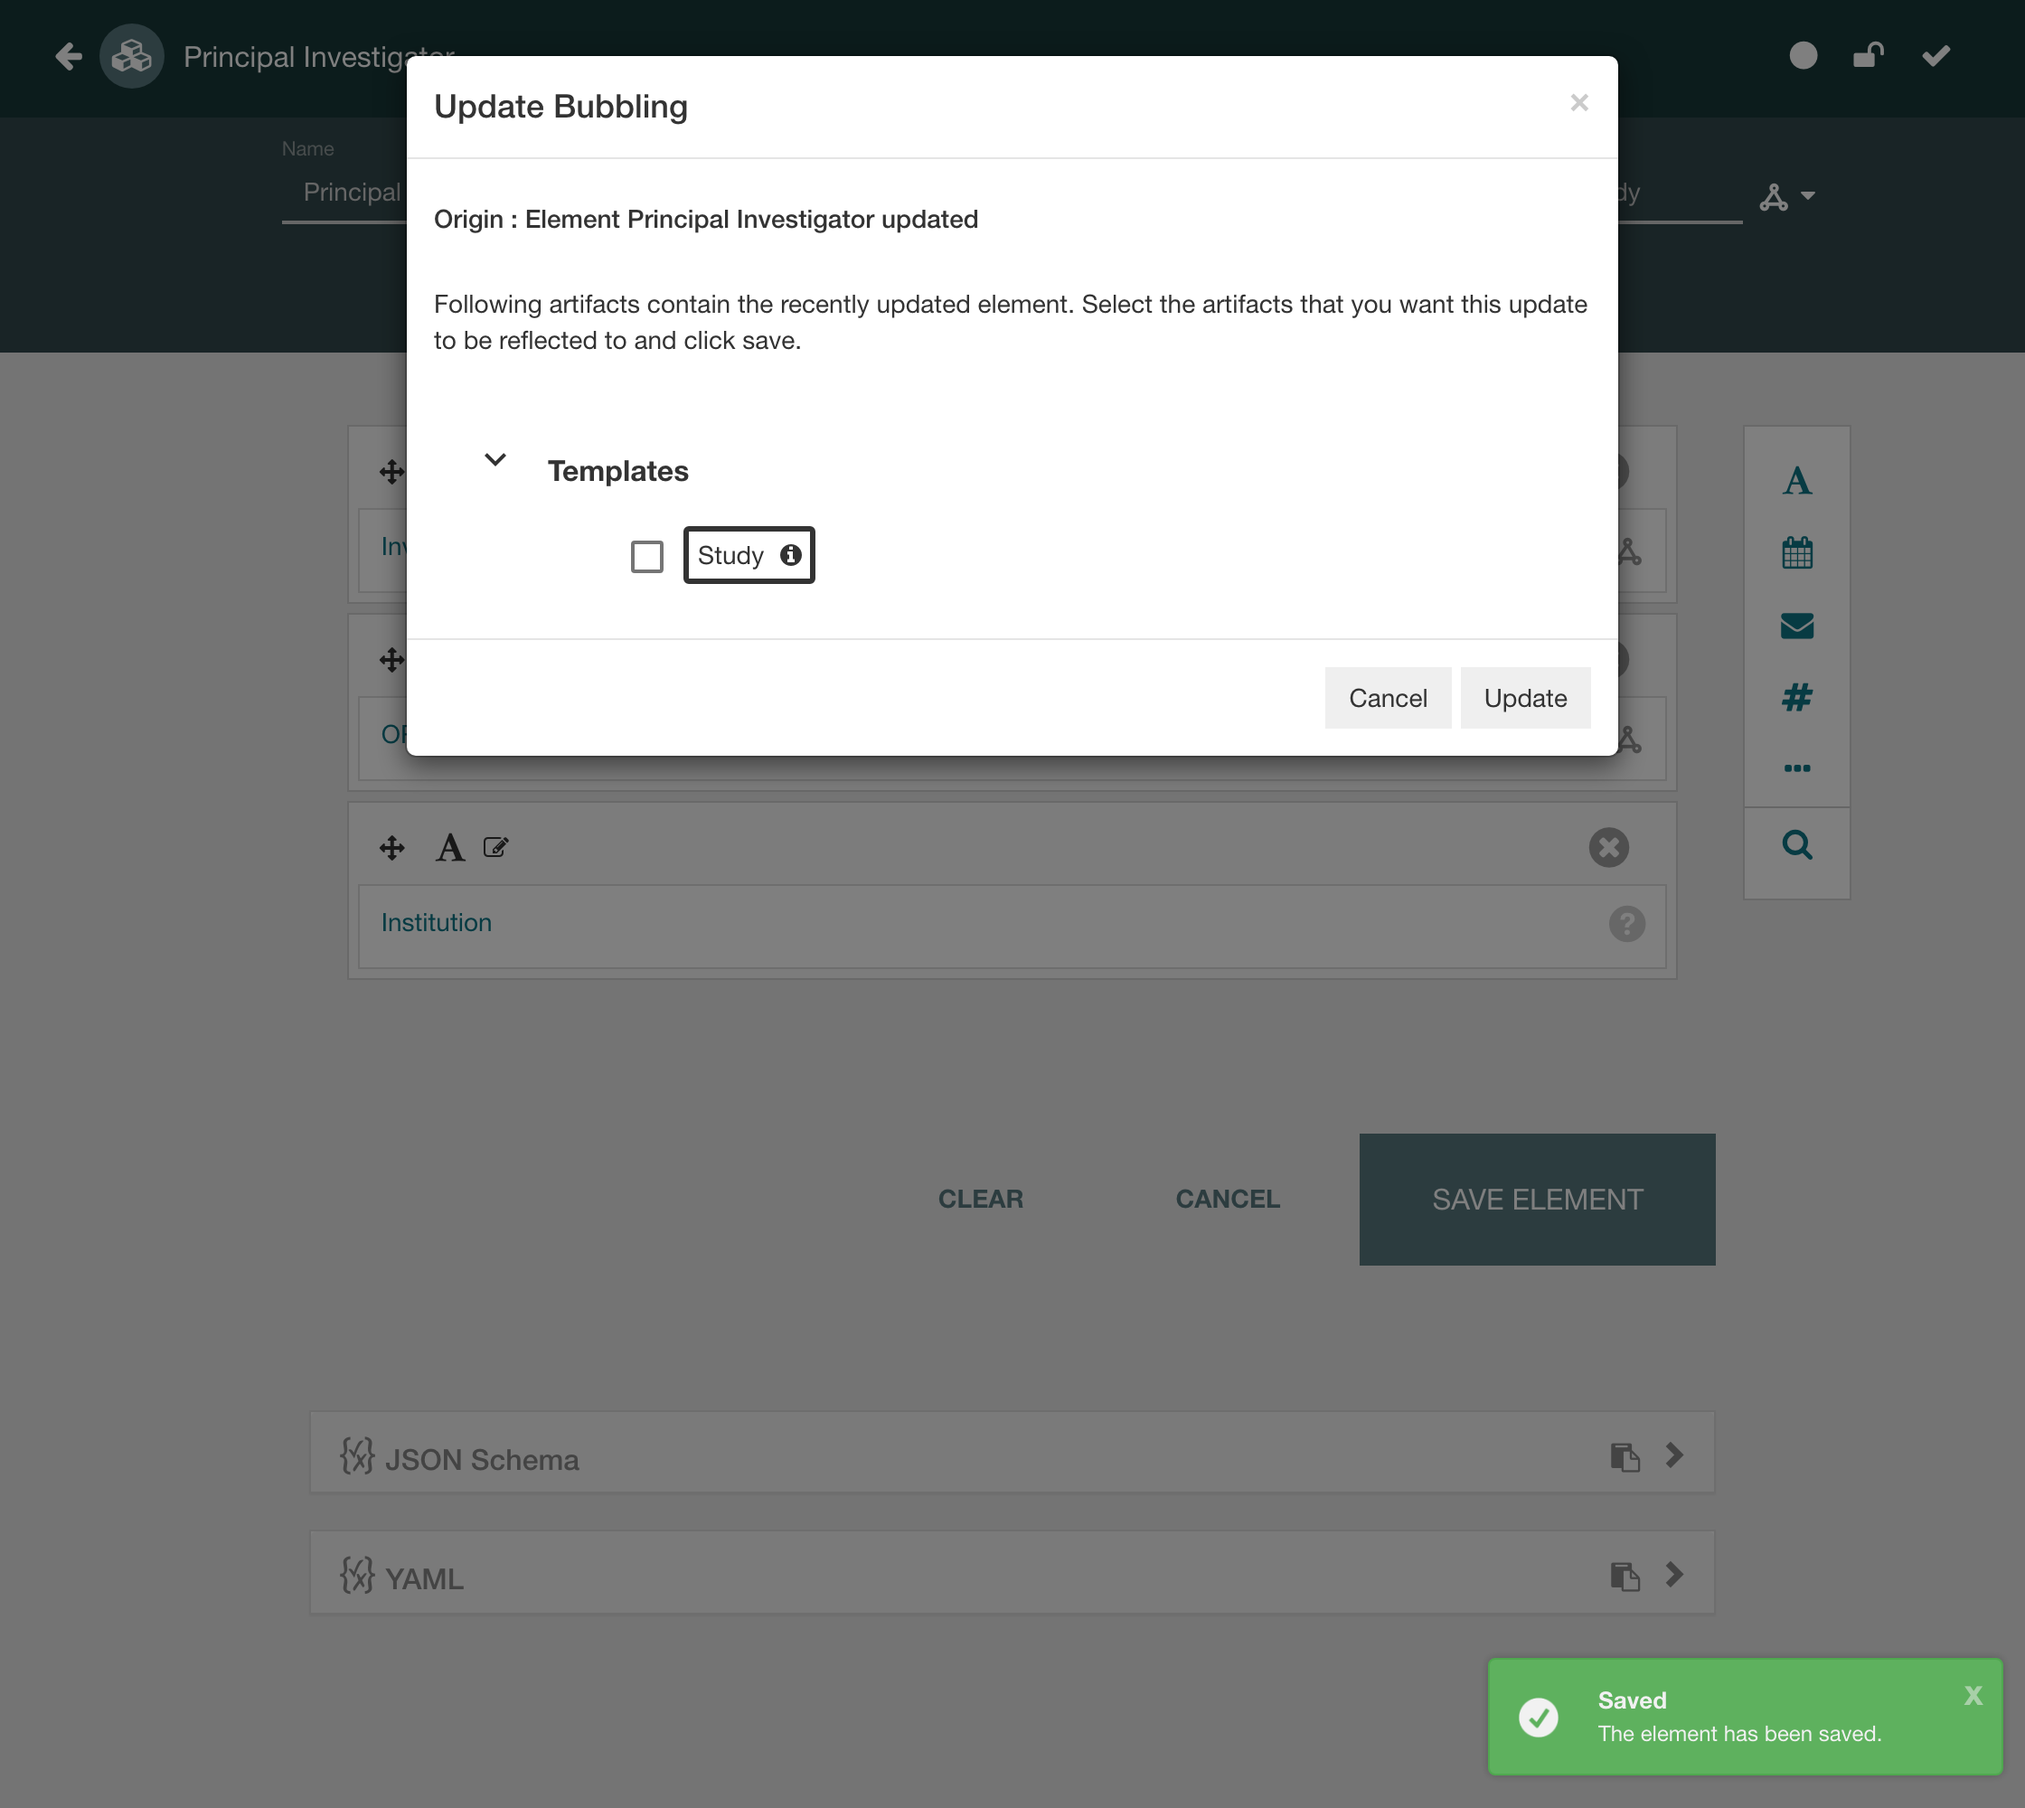
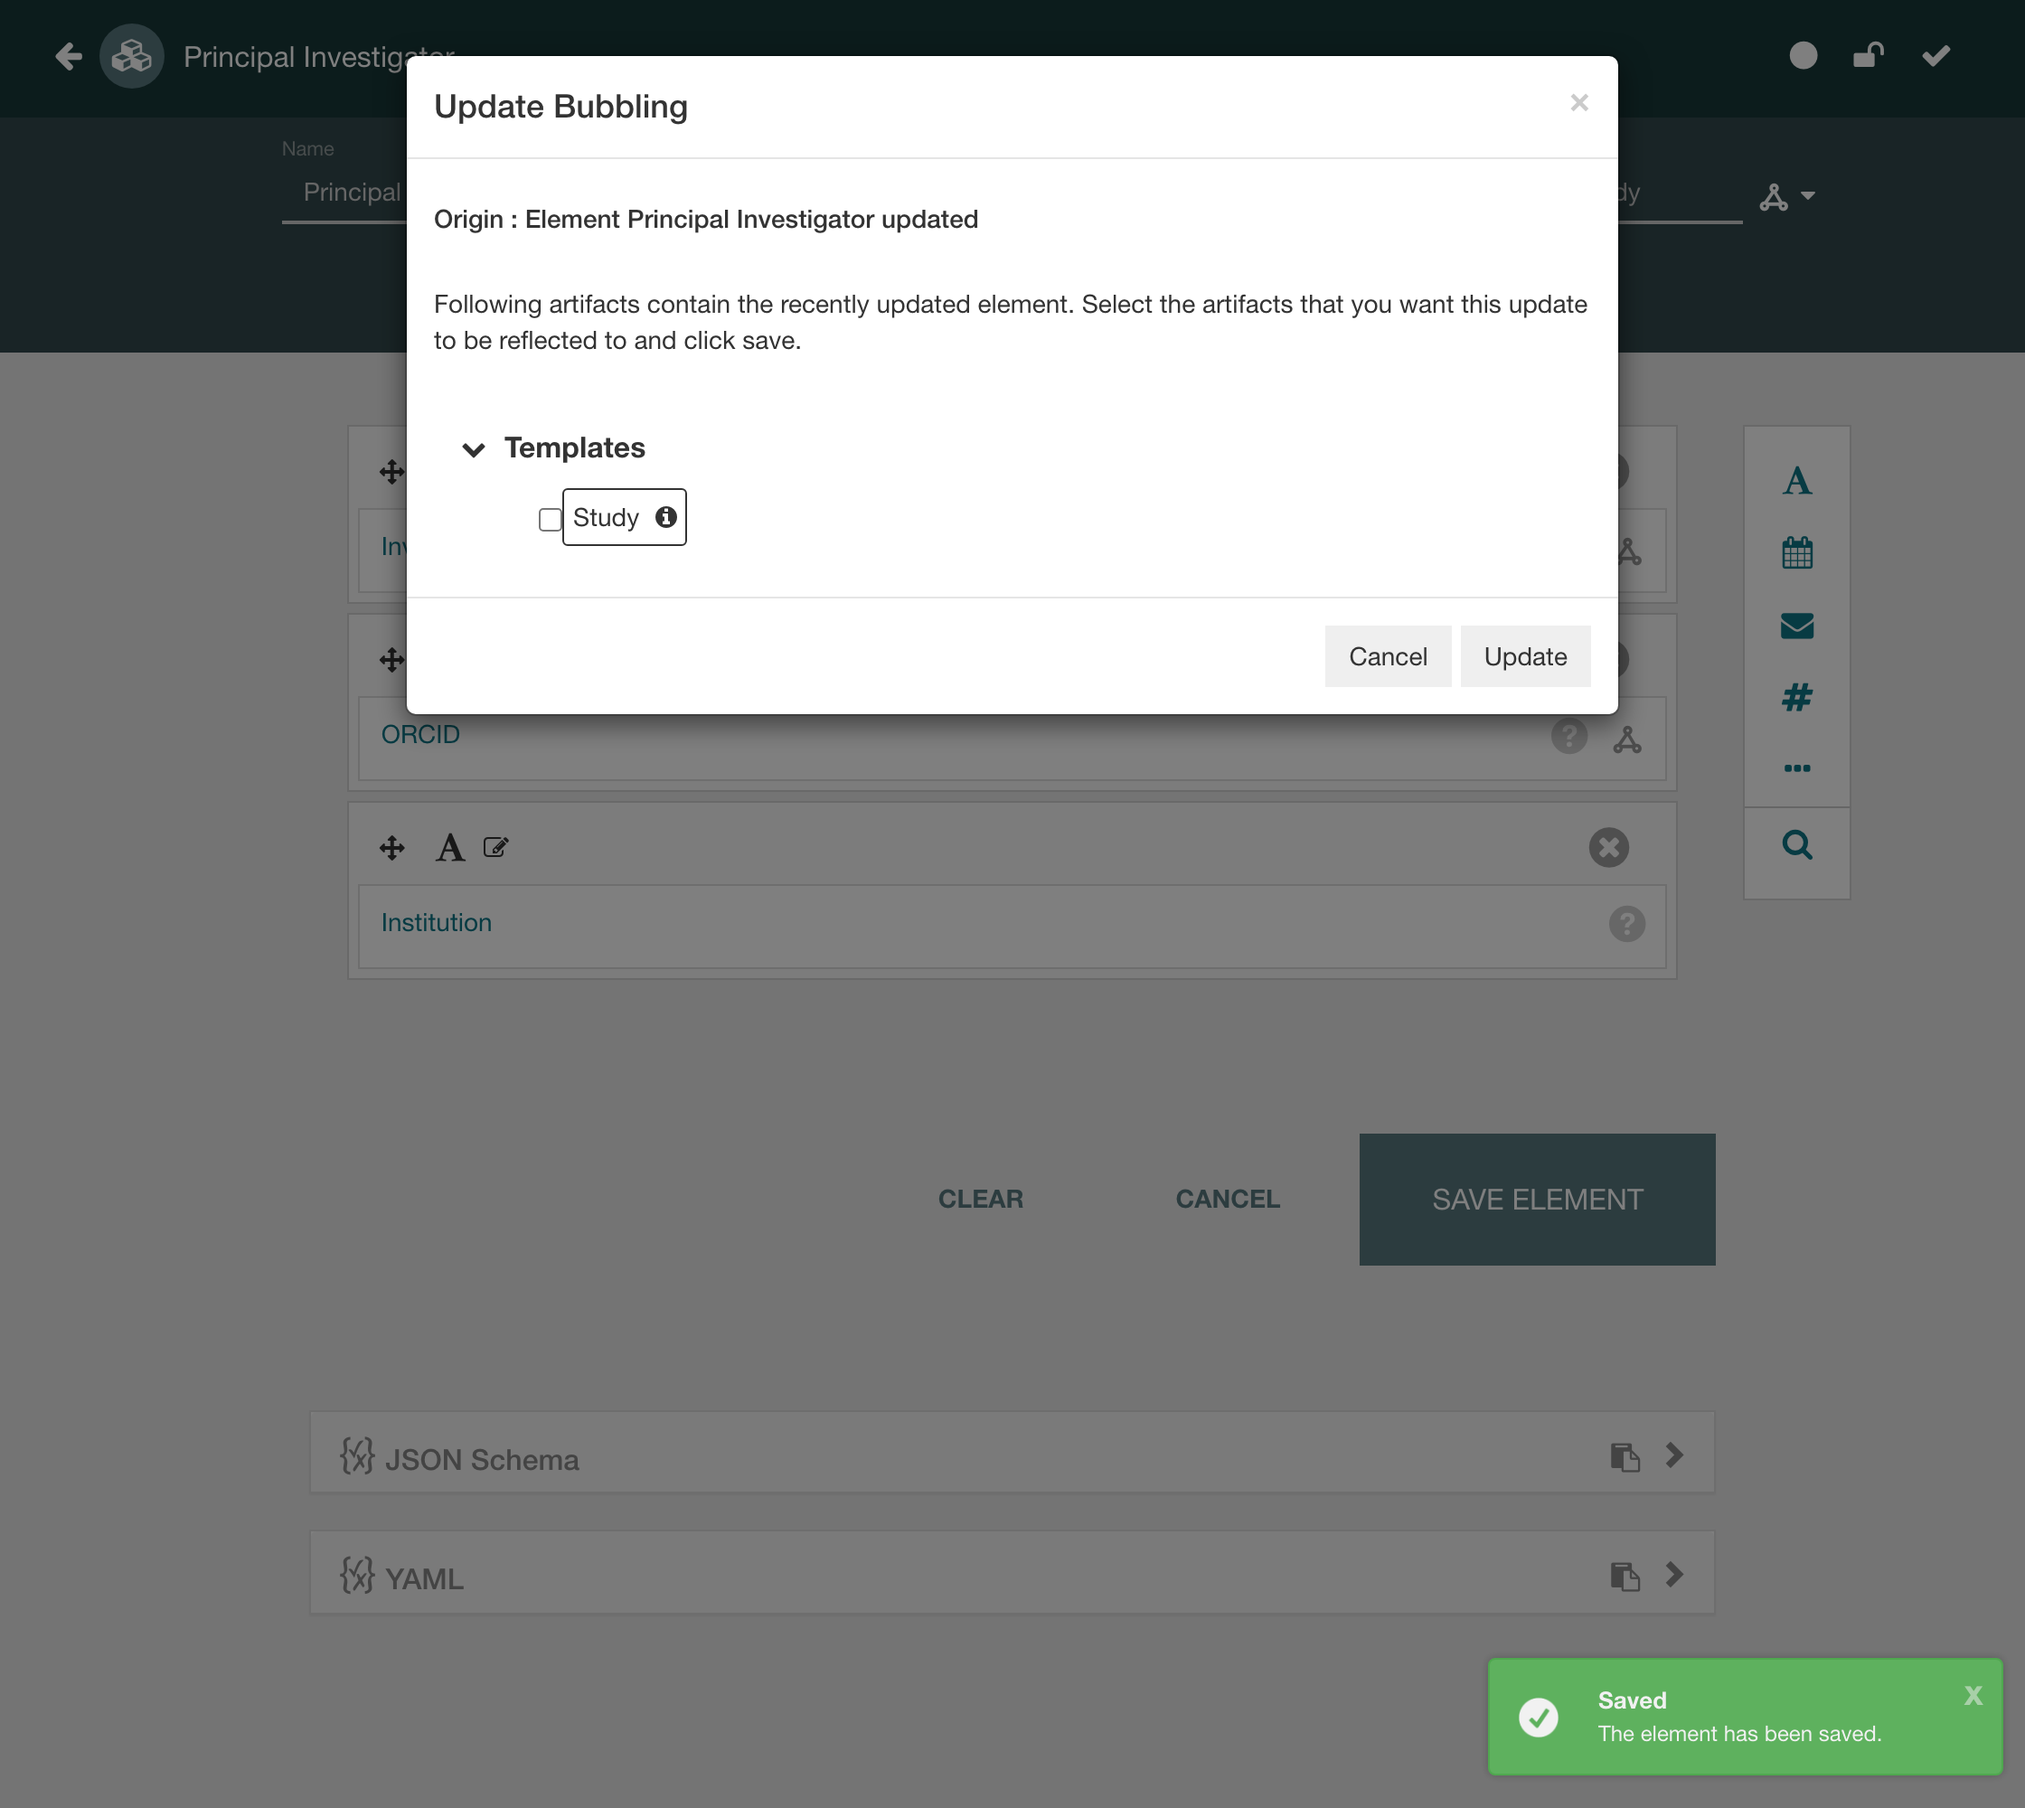
State that Update Bubbling offers no tick for a published version
The page described what to tick without saying what cannot be ticked, because until now nothing
stopped a published artifact taking a propagated change: the window offered the tick and the
write went through, leaving a released version carrying content it was never published with.
Propagation now refuses such a target, and the window greys its checkbox and marks it with a
globe, so the page can say so.

Also drop publication status from the list of what a propagated write preserves. It read as
though a published artifact were rewritten in place with its status intact, which is the
behaviour that has just been removed.

The capture runner addressed the window as the compiled web component it used to be, through
<artifact-selector> and Material's mdc- checkbox classes, and would have failed on the first
propagation step. Address the AngularJS markup that replaced it, and name the row to tick
rather than taking the first one, since a published row's tick is disabled.

Changed region(s): [[0.1875, 0.341, 0.8125, 0.434], [0.25, 0.248, 0.4062, 0.341]]

diff --git a/docs/user-guide/artifact-versioning.md b/docs/user-guide/artifact-versioning.md
@@ -115,11 +115,12 @@ Bubbling window.
 The window lists the artifacts that hold a copy, grouped by kind, and the information icon
 beside a name shows its location, owner and provenance. Tick the ones that should take the new
 definition and click **Update**. Each is rewritten where it stands, keeping its own identifier,
-name, version and publication status, with only the embedded copy replaced. Cancelling, or
-leaving an artifact unticked, leaves it on the copy it already has.
+name and version, with only the embedded copy replaced. Cancelling, or leaving an artifact
+unticked, leaves it on the copy it already has.
 
-Tick only artifacts that are still drafts. A published version is meant to stay fixed, so bring
-the change into a new draft of it rather than into the release.
+Only drafts can take the change. Publication fixes a version's content, so the window offers no
+tick for a published artifact: its checkbox is greyed, and a globe beside the name marks the
+version as released. Create a new version of it first, and tick that instead.
 
 The Study template now carries the element with its Institution field.
 
